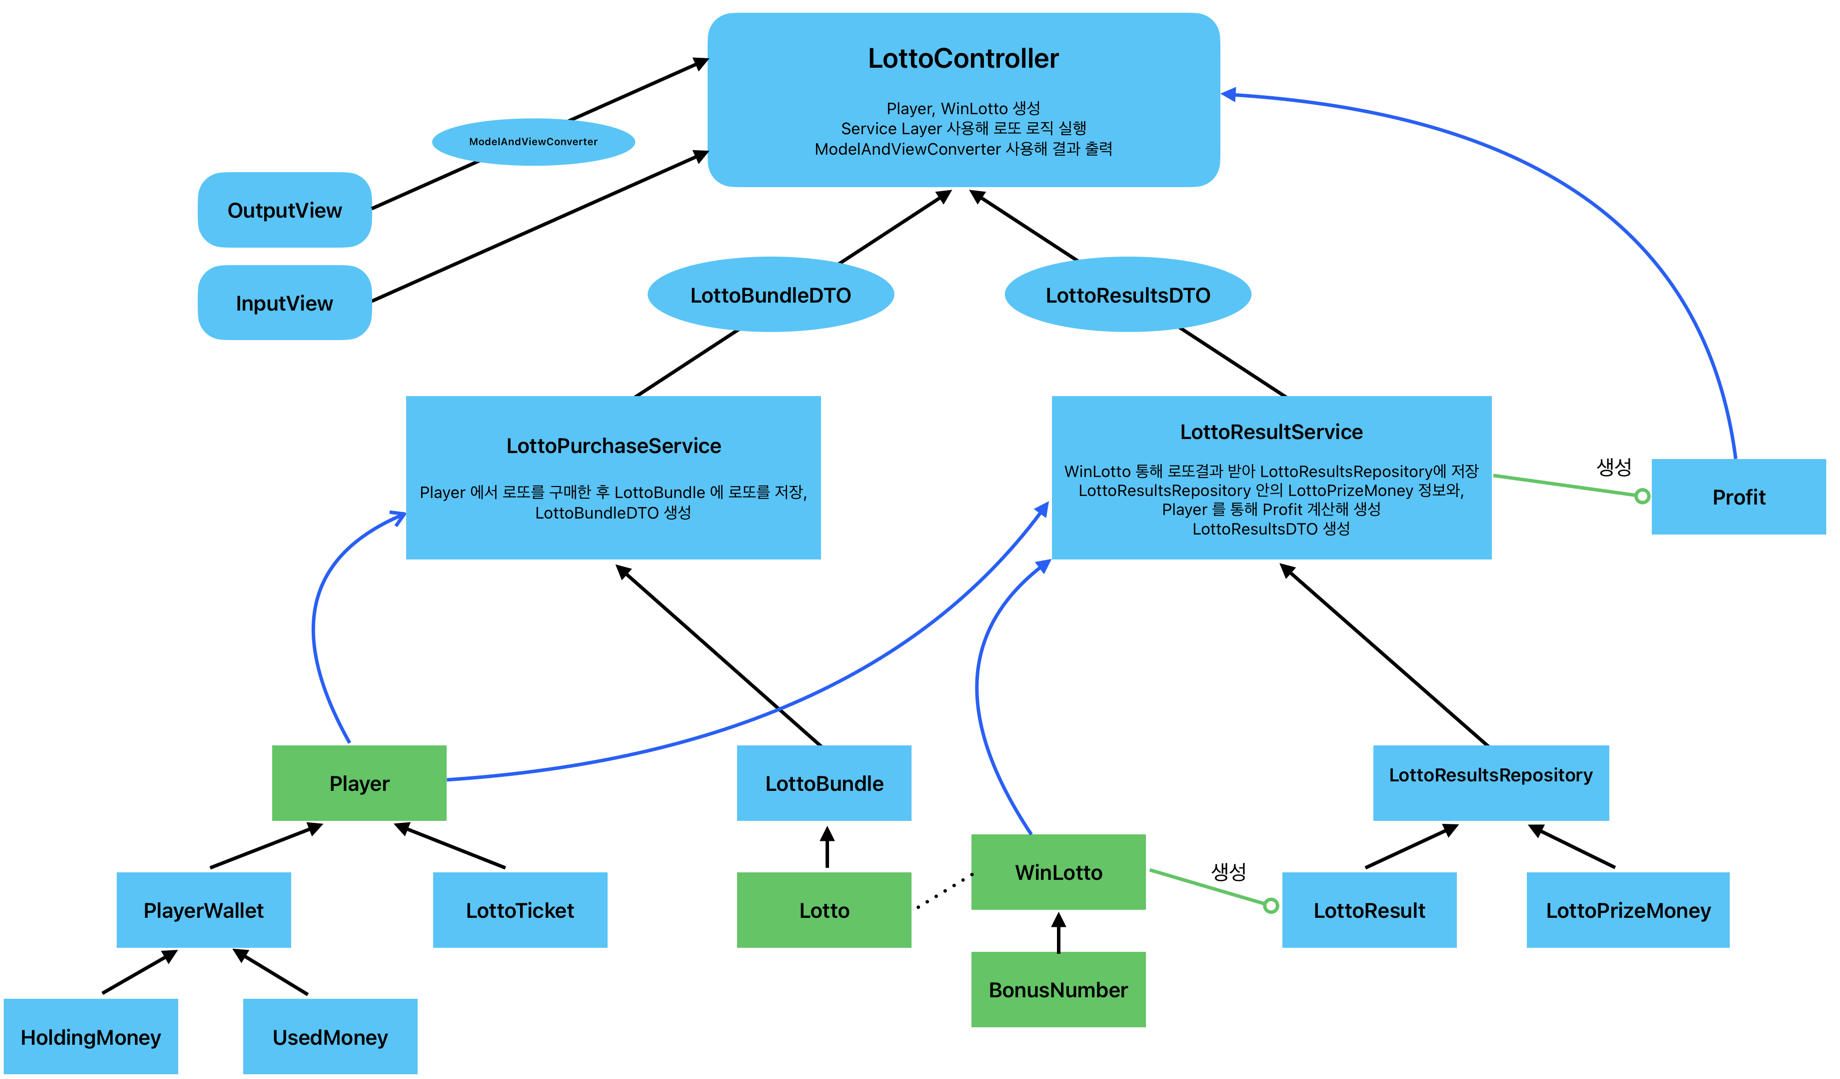
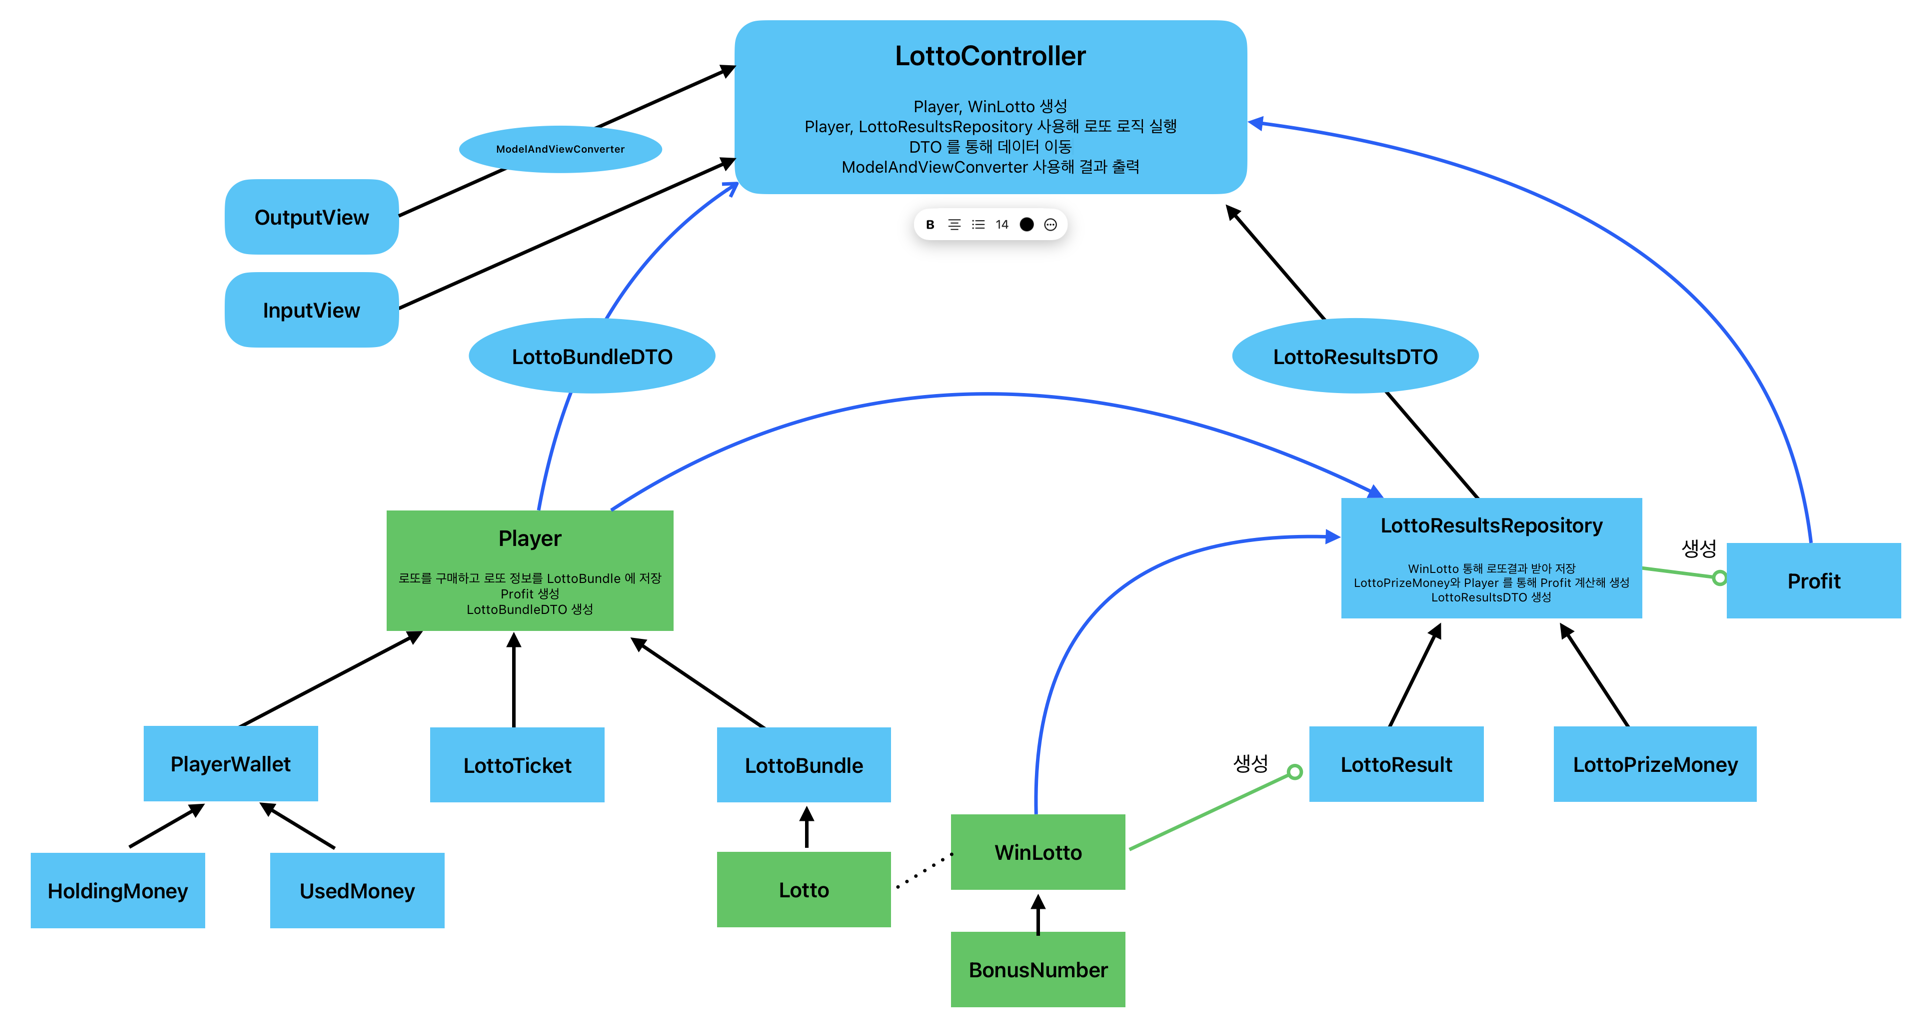
📝DOCS: 기능목록 및 ClassDiagram 업데이트,
Service Layer 삭제, 로직 복잡성을 줄이기 위해 Service Layer 삭제.

diff --git a/docs/README.md b/docs/README.md
@@ -6,7 +6,7 @@
 - 사용자가 잘못된 값을 입력할 경우 IllegalArgumentException를 발생시키고, "[ERROR]"로 시작하는 에러 메시지를 출력 후 그 부분부터 입력을 다시 받는다.
 - Exception이 아닌 IllegalArgumentException, IllegalStateException 등과 같은 명확한 유형을 처리한다.
 # Class Diagram
-![img_1.png](ClassDiagram.png)
+![img.png](ClassDiagram.png)
 # Model
 - ###  Player
 - [x] 로또 구입 금액을 보유 금액에 저장 - HoldingMoney
@@ -21,6 +21,8 @@
 - [x] 보유 금액 전부를 로또 구매에 사용해 LottoTicket 을 받음 - Player
 - [x] 가지고 있는 티켓 전부로 로또를 구매함 - Player
 - [x] 로또 결과를 통해 수익률 가져오기 - Player
+- [ ] Player 가 로또를 구매해 저장함 - Player
+- [ ] 로또 구매 내역을 LottoBundleDto 를 통해 반환 - Player
 - [x] 수익률을 저장함 - Profit
 - ### Lotto
 - [x] 로또에 번호가 있는지 확인 - Lotto
@@ -47,12 +49,9 @@
 - [x] LottoPrizeMoney 에 당첨내역 업데이트해 총 상금 업데이트하기 - LottoResultRepository
 - [x] 로또 결과 리스트를 받아 결과 업데이트 하기 - LottoResultsRepository
 - [x] 총 상금 반환하기 - LottoResultsRepository
-- ### Service
-- [x] Player 가 로또를 구매해 저장함 - LottoPurchaseService
-- [x] 로또 구매 내역을 LottoBundleDto 를 통해 반환 - LottoPurchaseService
-- [x] 로또 데이터와 WinLotto 받아 당첨 결과를 업데이트 - LottoResultsService
-- [x] 로또 당첨 결과를 LottoResultsDto 를 통해 반환 - LottoResultsService
-- [x] LottoResultsRepository 와 Player 를 통해 Profit 계산 및 반환 - LottoResultsService
+- [ ] 로또 데이터와 WinLotto 받아 당첨 결과를 업데이트 - LottoResultsRepository
+- [ ] 로또 당첨 결과를 LottoResultsDto 를 통해 반환 - LottoResultsRepository
+- [ ] Player 를 통해 Profit 계산 및 반환 - LottoResultsRepository
 - ### DTO
 - [x] 로또 번호를 전달하기 위한 DTO - LottoBundleDto
 - [x] 로또의 총 개수를 반환하기 - LottoBundleDto
